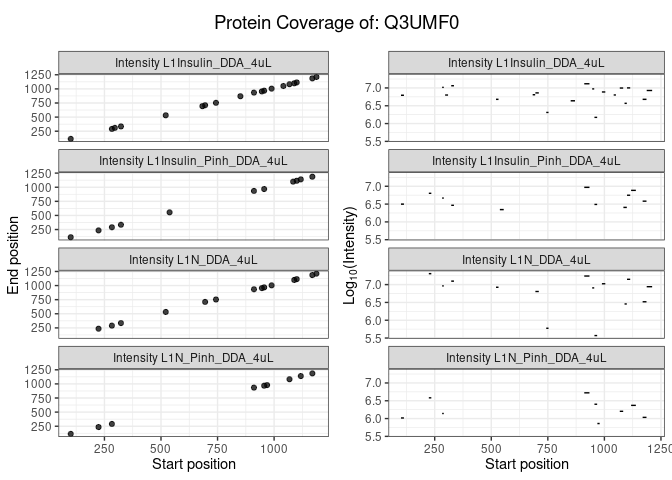
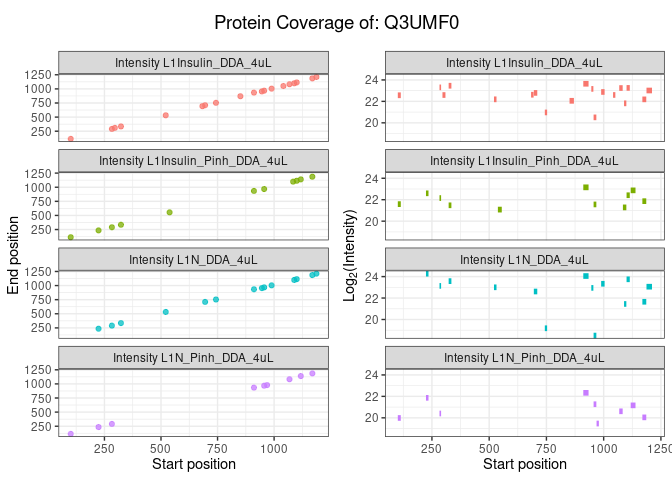
Protein Coverage finished

diff --git a/README.md b/README.md
@@ -140,7 +140,7 @@ PlotTotalIonCurrent(msmsScans)
 <img src="man/figures/README-TotalIonCurrent-1.png" width="100%" />
 
 ``` r
-PlotProteinCoverage(peptides, UniprotID = "Q3UMF0")
+PlotProteinCoverage(peptides, UniprotID = "Q3UMF0", log_base = 2, segment_width = 2)
 ```
 
 <img src="man/figures/README-protein_degradation-1.png" width="100%" />
